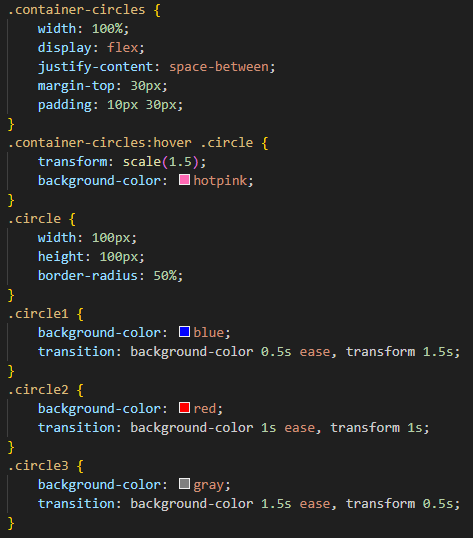
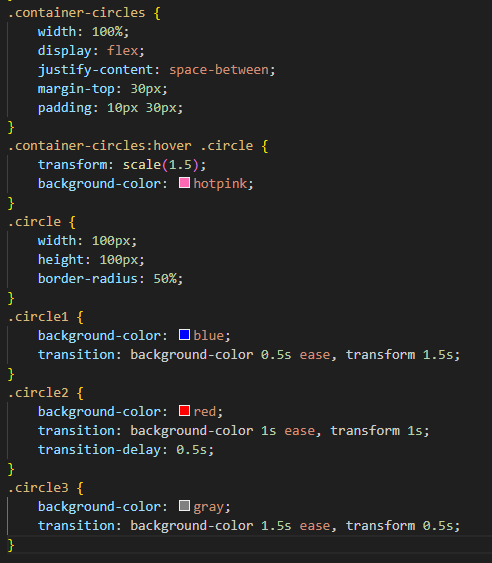
commit control

diff --git a/index.html b/index.html
@@ -208,126 +208,3 @@
 </body>
 
 </html>
-        <h3>Transformaciones</h3>
-        <div class="flex main-transformation-container-divided">
-          <div>
-            <p>
-              Las transformaciones son una de las características de CSS más interesantes la cual permite realizar efectos
-              visuales 2D y 3D. Con
-              ellas podemos hacer cosas como mover elementos, rotarlos, aumentarlos o disminuirlos y otras transformaciones
-              relacionadas o combinadas.
-              <br>
-            </p>
-            <pre>
-              <code>
-                .astronaut-img {
-                  border-radius: 2rem;
-                  width: 20rem;
-                  height: 20rem;
-                  margin: 0 auto;
-                  transform: rotate(20deg);
-                }
-              </code>
-            </pre>
-          </div>
-          <img class="astronaut-img" src="https://i.pinimg.com/550x/12/5b/47/125b4749900b13cbacf81faade2a5f8f.jpg"
-            alt="imagen astronauta">
-        </div>  
-        <h4>Tipos de transformaciones</h4>
-        <div class="flex main-transformation-container-divided">
-          <div>
-            <h5>Timing functions: </h5>
-            <p>La función de tiempo de animación especifica la curva de velocidad de una animación. La curva de velocidad
-              define el TIEMPO que usa una animación para cambiar de un conjunto de estilos CSS a otro</p>
-          </div>
-          <img class="timing-image" src="https://developer.mozilla.org/en-US/docs/Web/CSS/easing-function/ease.svg" alt="">
-        </div>
-        <div style="margin-top: 20px; flex-direction: row-reverse;" class="flex main-transformation-container-divided">
-          <div>
-            <h5>Translate(): </h5>
-            <p>Translate permite mover un elemento en el eje X o Y, incluso en ambos, esto quiere decir que con CSS
-              podríamos llevar un elemento desde un punto A a un punto B</p>
-            <pre>
-              <code>
-                .translate-image:hover {
-                  transform: translate(0px, -100%);
-                  transition-duration: 2s;
-                }
-                .translate-image:not(:hover) {
-                    transform: translate(0px, 0px);
-                    transition-duration: 2s;
-                }
-              </code>
-            </pre>
-          </div>
-          <img class="translate-image" src="https://assets.stickpng.com/images/5856a4f24f6ae202fedf2760.png" alt="">
-        </div>
-        <div style="margin-top: 20px; flex-direction: row-reverse;" class="flex main-transformation-container-divided">
-          <div>
-            <h5>Rotate, Scale, Skew y Matrix(): </h5>
-            <p>Rotate: Ayuda a girar un elemento.</p>
-            <p>Scale: Se pude agrandar o achicar un elemento.</p>
-            <p>Skew: Nos ayuda a deformar un elemento tanto en eje X como en Y.</p>
-            <p>Matrix: Esta propiedad es un poco más compleja, nos ayuda a rotar, escalar, deformar, esto se hace através de
-              coordenadas.</p>
-            <img style="width: 70%; border-radius: 20px; margin-top: 10px;"
-              src="https://media.giphy.com/media/KRRSOKFINjskbRNENr/giphy.gif" alt="">
-          </div>
-          <div>
-            <img class="scale-image"
-              src="https://png.pngtree.com/png-clipart/20230507/ourmid/pngtree-cat-with-sunglasses-on-isolated-background-png-image_7088102.png"
-              alt="">
-            <pre style="width: fit-content;">
-              <code>
-                .scale-image {
-                  transition: transform 1s ease-in-out;
-                }
-                .scale-image:hover {
-                    transform: scale(0.5);
-                }
-              </code>
-            </pre>
-          </div>
-        </div>
-        <div style="margin-top: 20px;" class="flex main-transformation-container-divided">
-          <div>
-            <h5>Transform origin: </h5>
-            <p>Siempre utilizamos transform, el origen de esta transformación va ser en todo el centro, lo que indica que en
-              caso que queremos rotar un elemento, rotará desde su punto de origen central, con css podemos cambiar ese
-              punto de origen con transform origin.</p>
-            <pre style="width: fit-content;">
-              <code>
-                .transform-origin {
-                  margin: 0 auto;
-                  width: 30%;
-                  transition: transform 2s ease-in-out;
-                  transform-origin: left bottom;
-                }          
-                .transform-origin:hover {
-                    transform: rotate(360deg);
-                }
-              </code>
-            </pre>
-          </div>
-          <div class="flex">
-            <img class="transform-origin" src="./assets/bat.webp" alt="">
-          </div>
-        </div>
-        <div style="margin-top: 20px;" class="flex main-transformation-container-divided">
-          <div>
-            <h5>Transform de estilo y perspectiva: </h5>
-            <p>En css también podemos hacer transformaciones en 3D, esto significa que podemos ajustar la perspectiva y el
-              estilo de un componente. Este tipo de transformación lo que implica es que ya no tendremos un plano donde
-              manejaremos un eje X y uno Y sino también un eje Z, que es la profundidad del elemento.</p>
-            <img src="https://lenguajecss.com/css/transformaciones/transform-3d/transform-axis-x-y-z.png" alt="">
-          </div>
-          <div class="flex" style="height: 100%; flex-direction: column; gap: 100px; align-items: center;">
-            <div class="container">
-              <div class="box">
-                <p>¡Transformación 3D!</p>
-              </div>
-            </div>
-            <img style="margin-top: 50px;" src="./assets/perspectiva.png" alt="">
-          </div>
-        </div>
-      </section> -->

diff --git a/styles.css b/styles.css
@@ -166,6 +166,7 @@ section {
 .circle2 {
     background-color: red;
     transition: background-color 1s ease, transform 1s;
+    transition-delay: 0.5s;
 }
 .circle3 {
     background-color: gray;
